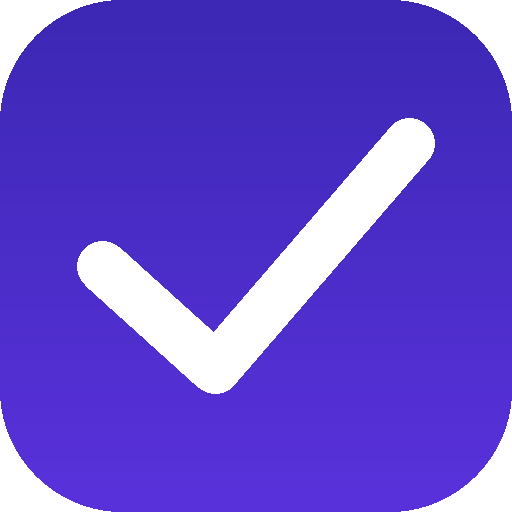
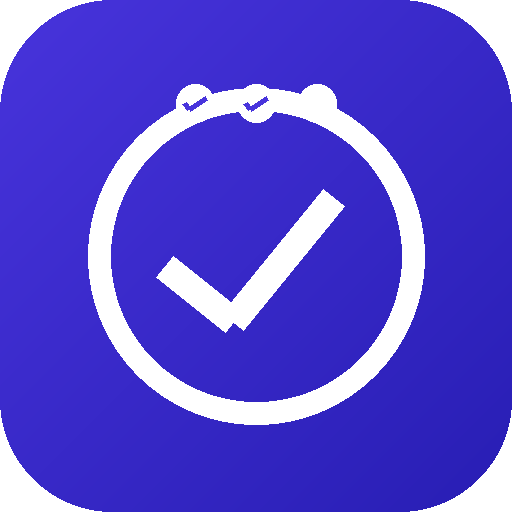
fix: nav como flex child, sheet scroll, nuevo icono, SW v7

diff --git a/index.html b/index.html
@@ -69,7 +69,7 @@ html,body{
   position:absolute;inset:0;
   overflow-y:auto;overflow-x:hidden;
   scrollbar-width:none;
-  padding-bottom:calc(72px + env(safe-area-inset-bottom, 0px));
+  padding-bottom:24px;
   transition:opacity .22s ease, transform .22s ease;
 }
 .app-screen::-webkit-scrollbar{display:none;}
@@ -317,7 +317,7 @@ html,body{
   display:flex;align-items:center;justify-content:center;
   cursor:pointer;flex-shrink:0;
   box-shadow:0 4px 20px rgba(124,110,247,.55);
-  margin-top:-10px;
+  margin-top:-8px;
   transition:all .18s cubic-bezier(.34,1.56,.64,1);
 }
 .nav-add:active{transform:scale(.88);}
@@ -394,17 +394,29 @@ html,body{
    BOTTOM NAV
 ═══════════════════════════════════════════ */
 .bottom-nav{
-  position:fixed;bottom:0;left:0;right:0;
-  background:rgba(13,13,18,.94);backdrop-filter:blur(20px);-webkit-backdrop-filter:blur(20px);
-  border-top:1px solid rgba(255,255,255,.05);
-  display:flex;align-items:flex-end;
-  padding:0 4px env(safe-area-inset-bottom,16px);
-  gap:2px;z-index:200;
+  /* Flex child de .phone — queda pegado al fondo sin ambigüedad */
+  flex-shrink:0;
+  width:100%;
+  display:flex;
+  align-items:center;
+  background:rgba(13,13,18,.94);
+  backdrop-filter:blur(20px);-webkit-backdrop-filter:blur(20px);
+  border-top:1px solid rgba(255,255,255,.06);
+  padding-bottom:env(safe-area-inset-bottom,0px);
+  position:relative;
+  overflow:visible;
 }
 .nav-item{
-  flex:1;display:flex;flex-direction:column;align-items:center;gap:3px;
-  padding:10px 4px 6px;border-radius:12px;border:none;background:transparent;cursor:pointer;
+  flex:1;
+  height:50px;
+  display:flex;flex-direction:column;
+  align-items:center;justify-content:center;
+  gap:3px;
+  padding:0 4px;
+  border-radius:12px;border:none;
+  background:transparent;cursor:pointer;
   transition:background .12s;
+  -webkit-tap-highlight-color:transparent;
 }
 .nav-item:active{background:rgba(255,255,255,.04);}
 .nav-item svg{width:21px;height:21px;stroke:var(--muted);fill:none;stroke-width:1.8;stroke-linecap:round;stroke-linejoin:round;transition:stroke .2s;}
@@ -524,7 +536,13 @@ html,body{
   background:var(--surface);border-radius:24px 24px 0 0;border-top:1px solid var(--border);
   padding:0 20px calc(32px + env(safe-area-inset-bottom,16px));
   transform:translateY(100%);transition:transform .32s cubic-bezier(.32,.72,0,1);
-  z-index:310;max-height:88vh;overflow-y:auto;
+  z-index:500;
+  height:90dvh;
+  max-height:90dvh;
+  overflow-y:auto;
+  -webkit-overflow-scrolling:touch;
+  overscroll-behavior:contain;
+  touch-action:pan-y;
 }
 .bottom-sheet::-webkit-scrollbar{display:none;}
 .bottom-sheet.open{transform:translateY(0);}
@@ -624,6 +642,10 @@ html,body{
   padding:0 20px calc(32px + env(safe-area-inset-bottom,16px));
   transform:translateY(100%);transition:transform .32s cubic-bezier(.32,.72,0,1);
   z-index:310;
+  max-height:92svh;
+  overflow-y:scroll;
+  -webkit-overflow-scrolling:touch;
+  overscroll-behavior:contain;
 }
 .add-sheet.open{transform:translateY(0);}
 .add-sheet-title{font-size:17px;font-weight:800;color:var(--text);margin-bottom:18px;}
@@ -1233,7 +1255,7 @@ body.light{
   --orange:#ff9500;
   --yellow:#ffcc00;
 }
-body.light .bottom-nav{background:rgba(255,255,255,.96);border-top-color:rgba(0,0,0,.08);}
+body.light .bottom-nav{background:rgba(248,248,250,.97);border-top-color:rgba(0,0,0,.08);}
 body.light .habit-card{box-shadow:0 1px 3px rgba(0,0,0,.08);}
 body.light .app-screen{background:var(--bg);}
 body.light .add-sheet,body.light .bottom-sheet{background:var(--surface);}
@@ -2575,7 +2597,15 @@ function setFilter(catId) {
 
 /* ─── TODAY: RENDER HABITS ─── */
 function renderHabits() {
-  const filtered = h => activeFilter === 'all' || h.categoryId === activeFilter;
+  // Día de semana actual: 0=Lu, 1=Ma, ..., 6=Do
+  const jsDay = new Date().getDay(); // 0=Dom, 1=Lun...
+  const todayOur = jsDay === 0 ? 6 : jsDay - 1;
+
+  const filtered = h => {
+    const dayOk = !h.days || h.days.length === 0 || h.days.length === 7 || h.days.includes(todayOur);
+    const catOk = activeFilter === 'all' || h.categoryId === activeFilter;
+    return dayOk && catOk;
+  };
   // Auto-complete incorporated habits
   habits.forEach(h => { if (h.incorporated) h.done = true; });
 
@@ -2597,9 +2627,10 @@ function renderHabits() {
     'visible', allFiltered.length > 0 && allFiltered.every(h => h.done)
   );
 
-  const totalDone = habits.filter(h => h.done).length;
-  const pct = habits.length ? Math.round((totalDone / habits.length) * 100) : 0;
-  document.getElementById('progressCount').textContent = `${totalDone} de ${habits.length}`;
+  const todayHabits = habits.filter(filtered);
+  const totalDone = todayHabits.filter(h => h.done).length;
+  const pct = todayHabits.length ? Math.round((totalDone / todayHabits.length) * 100) : 0;
+  document.getElementById('progressCount').textContent = `${totalDone} de ${todayHabits.length}`;
   document.getElementById('progressFill').style.width  = `${pct}%`;
 }
 
@@ -3866,4 +3897,4 @@ updateBadges();
     }
   </script>
 </body>
-</html>
+</html>

diff --git a/sw.js b/sw.js
@@ -1,4 +1,4 @@
-const CACHE = 'habitcore-v6';
+const CACHE = 'habitcore-v7';
 const ASSETS = ['/manifest.json', '/icon-192.png', '/icon-512.png'];
 
 self.addEventListener('install', e => {
